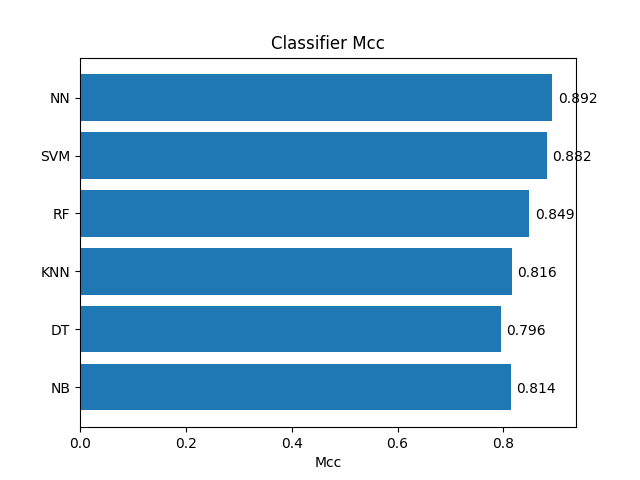
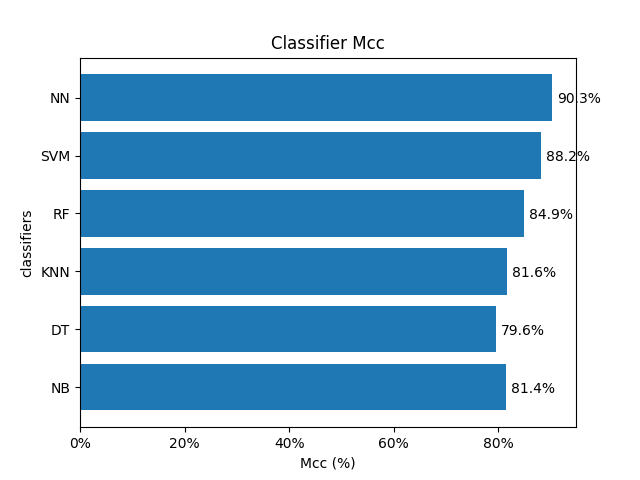
updated

diff --git a/main.py b/main.py
@@ -2,6 +2,7 @@
 
 
 """ IMPORTS NEEDED """
+import matplotlib.ticker as mtick
 import os
 import matplotlib.pyplot as plt
 from sklearn.model_selection import train_test_split
@@ -96,7 +97,7 @@ def decision_trees(tuner, X_train, y_train, X_test, y_test):
 """ END """
 
 
-""" KEENS NEAREST NEIGHBORS """
+""" K NEAREST NEIGHBORS """
 def k_nearest_neighbhors(tuner, X_train, y_train, X_test, y_test):
     #
     # START TIME
@@ -160,6 +161,7 @@ def support_vector_classification(tuner, X_train, y_train, X_test, y_test):
     # START TIME
     svm_start_time = time.perf_counter()
     # Best hyper param
+    #
     best_paramsSVM = tuner.tune_svm()
     print("Best hyperparameters SVM: ", best_paramsSVM)
     # Instantiate the DecisionTreeModel class
@@ -227,6 +229,8 @@ def get_metric(filename, metric_name):
 def plot_metric(data_file, metric_name, output_file):
     # Extract the data from the file using the metric name
     data = [get_metric(data_file[i], metric_name) for i in range(len(data_file))]
+    # Convert the data to percentages
+    data = [i * 100 for i in data]
     print(data)
     # Create horizontal bar chart
     classifiers = ('NB', 'DT', 'KNN', 'RF', 'SVM', 'NN')
@@ -235,11 +239,15 @@ def plot_metric(data_file, metric_name, output_file):
     plt.yticks(y_pos, classifiers)
 
     plt.title(f"Classifier {metric_name}")
-    plt.xlabel(metric_name)
+    plt.xlabel(f"{metric_name} (%)")  # Indicate that x axis is in percentages
+    plt.ylabel("classifiers")
 
     # Add the values at the end of the bars
     for i, v in enumerate(data):
-        plt.text(v + 0.01, i - 0.1, str(round(v, 3)))
+        plt.text(v + 1, i - 0.1, f"{round(v, 1)}%")  # Display the values as percentages
+
+    # Format x-axis to display as percentage
+    plt.gca().xaxis.set_major_formatter(mtick.PercentFormatter())
 
     # Save the chart to a file
     plt.savefig(os.path.join('results', output_file))

diff --git a/FeatureExtraction.py b/FeatureExtraction.py
@@ -14,7 +14,7 @@ class FeatureExtractor:
         vectorizer = CountVectorizer(min_df=self.minDF)
         vectorizer.fit(myArray)
         bow = vectorizer.transform(myArray).toarray()
-
+        # NLT K, to get rid of stop words
         # Save the feature labels to a file
         with open('results/feature_labels.txt', 'w', encoding='utf-8') as f:
             for label in vectorizer.get_feature_names_out():
